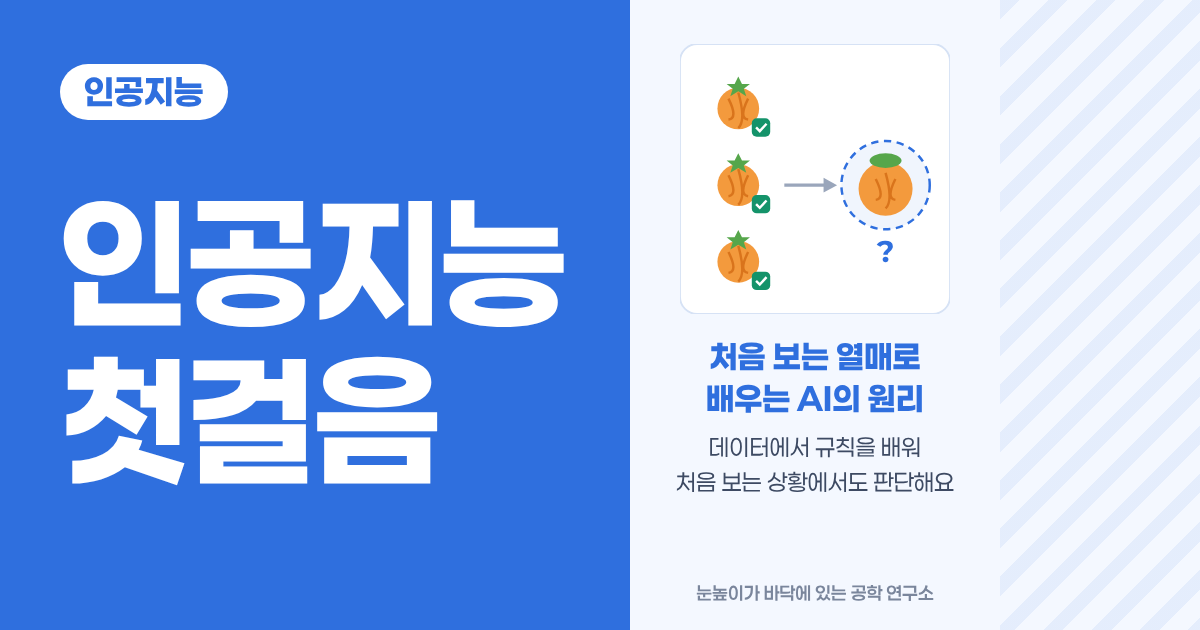
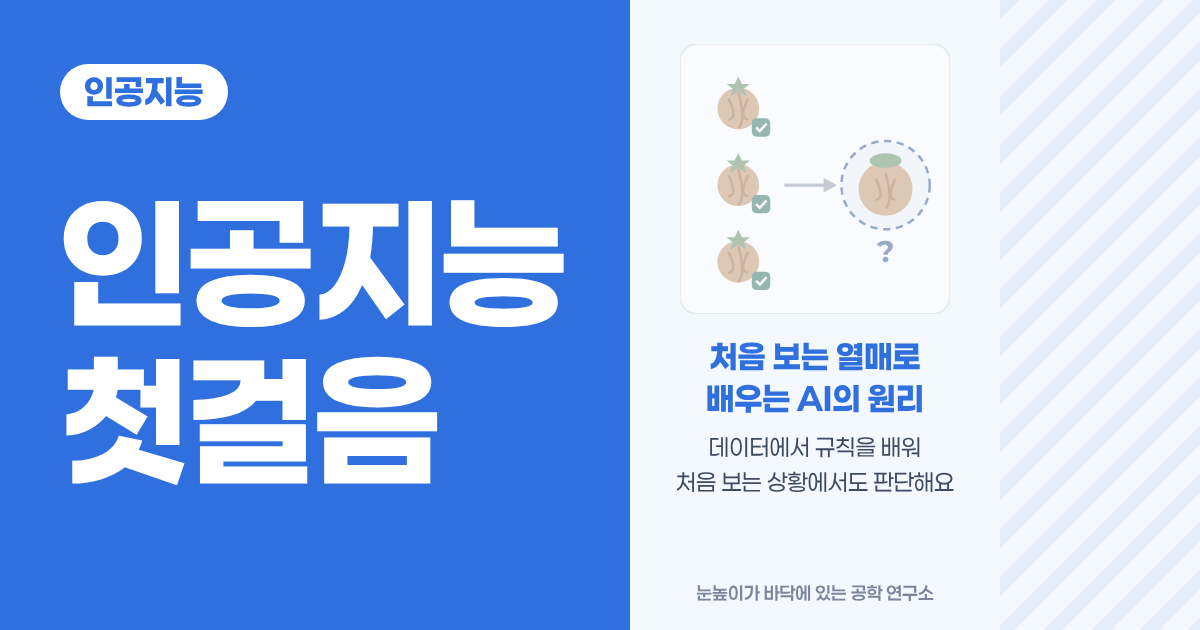
표지 시험: 오른쪽 그림 채도·진하기 낮춤(ai-110)
Claude-Session: https://claude.ai/code/session_01DR6nsVY4wjnLELXzx7ubGR

Changed region(s): [[0.5858, 0.2413, 0.7708, 0.4825], [0.5858, 0.1206, 0.6475, 0.2111]]

diff --git a/tools/cover.py b/tools/cover.py
@@ -133,7 +133,7 @@ body{{width:1200px;height:630px;font-family:P;background:{bg};position:relative;
 h1{{font-weight:800;font-size:150px;line-height:1.08;color:#fff;letter-spacing:-2px;white-space:nowrap}}
 .edge{{position:absolute;left:1000px;top:0;width:200px;height:630px;background:repeating-linear-gradient(135deg,{c}14 0 14px,transparent 14px 34px)}}
 .rt{{position:absolute;left:655px;top:44px;width:320px;height:560px;display:flex;flex-direction:column;text-align:center}}
-svg{{align-self:center}}
+svg{{align-self:center;opacity:.55;filter:saturate(.45)}}
 h2{{margin-top:22px;font-weight:800;font-size:32px;line-height:1.3;color:{c};text-wrap:balance}}
 .quote{{margin-top:12px;font-size:23px;line-height:1.5;color:#3d4a63}}
 .blog{{margin-top:auto;font-size:18px;color:#7a869c;font-weight:600}}
